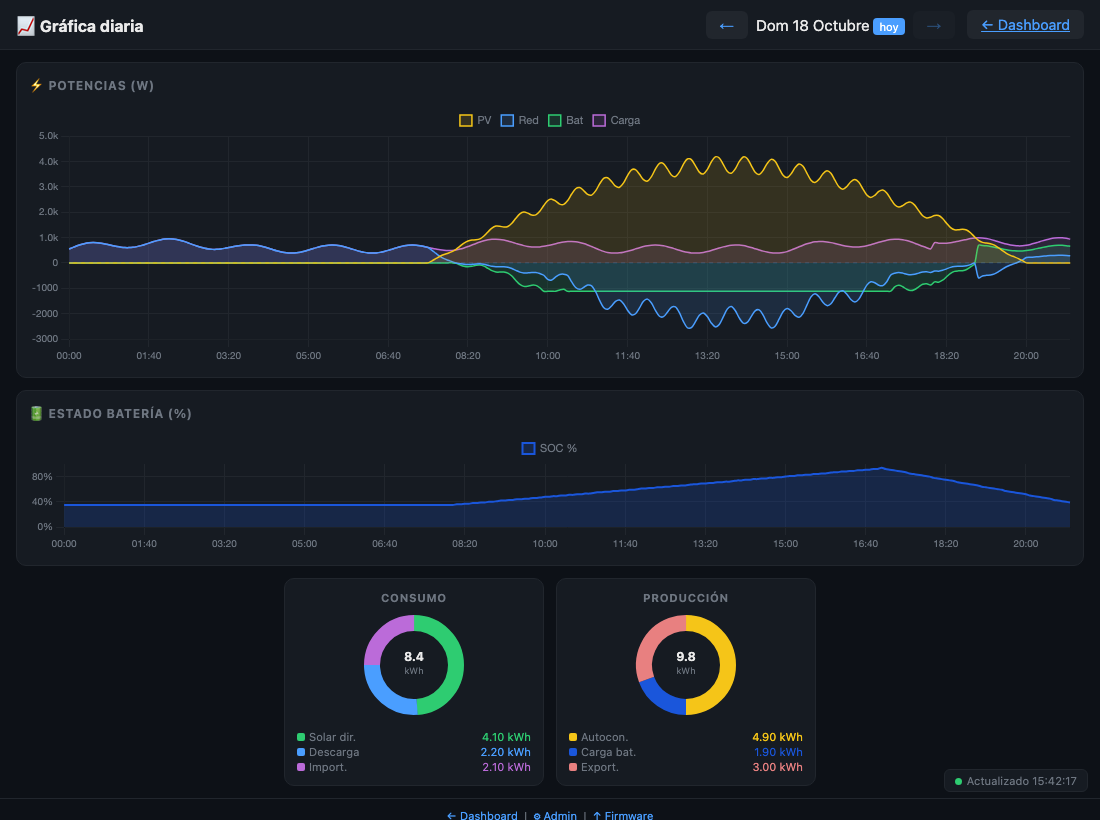
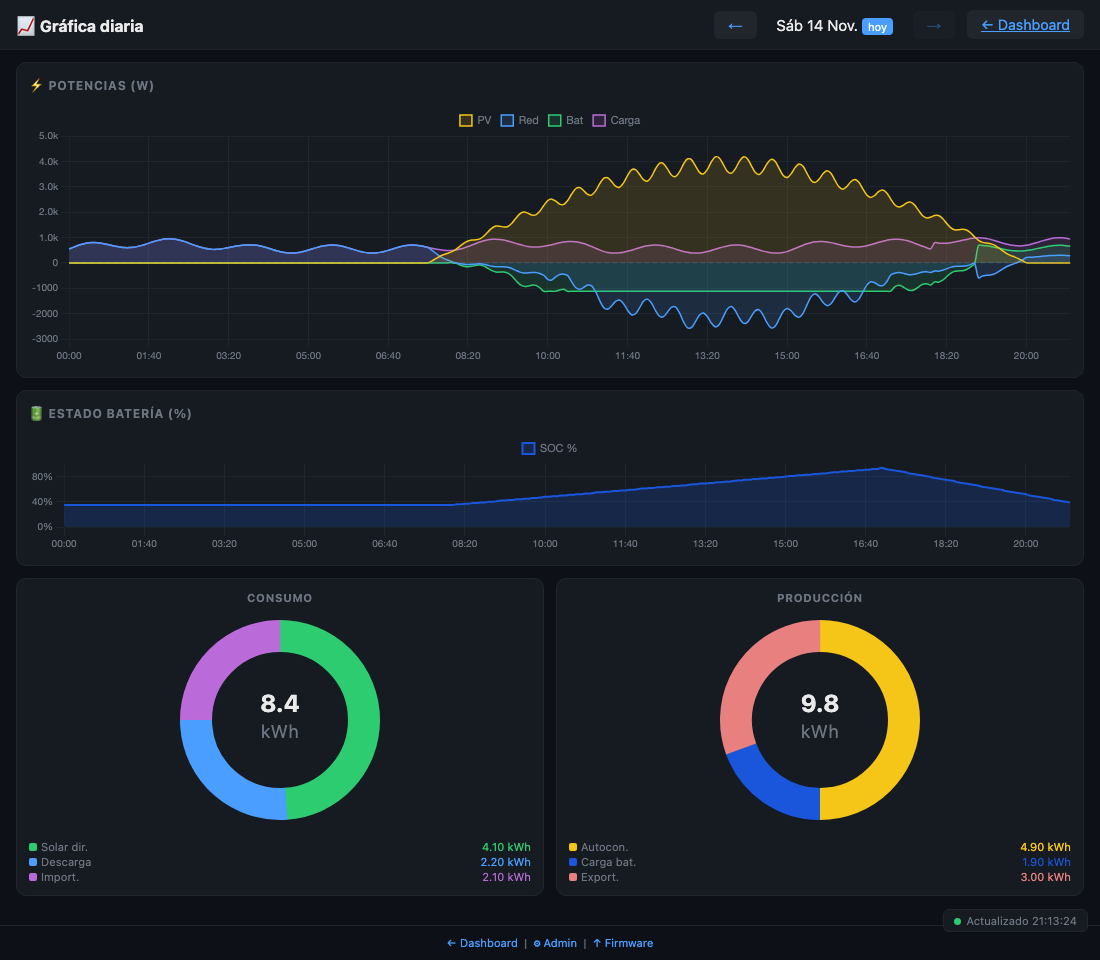
feat(web): los donuts de /chart ocupan todo el ancho, como el resumen «Hoy»

diff --git a/src/web_server.cpp b/src/web_server.cpp
@@ -953,10 +953,11 @@ main{flex:1;padding:12px 16px;display:flex;flex-direction:column;gap:12px}
 .no-data-overlay.visible{display:flex}
 .no-data-icon{font-size:2.2rem;opacity:.35}
 .no-data-txt{color:var(--muted);font-size:.85rem}
-.donut-row{display:flex;gap:12px;justify-content:center;flex-wrap:wrap}
+.donut-row{display:flex;gap:12px;flex-wrap:wrap}
 .donut-box{display:flex;flex-direction:column;align-items:center;gap:6px;
            background:var(--card);border:1px solid var(--border);
-           border-radius:10px;padding:12px;flex:1;min-width:180px;max-width:260px}
+           border-radius:10px;padding:12px;flex:1 1 180px;min-width:0}
+.donut-box svg{display:block;width:100%;max-width:220px;height:auto}
 .donut-box h3{font-size:.7rem;text-transform:uppercase;letter-spacing:.06em;
               color:var(--muted)}
 .leg{display:grid;grid-template-columns:1fr 1fr;gap:2px 10px;
@@ -1017,9 +1018,9 @@ footer a{color:var(--accent);text-decoration:none}
 <div class="donut-row">
   <div class="donut-box">
     <h3>Consumo</h3>
-    <svg width="110" height="110" viewBox="0 0 110 110">
+    <svg viewBox="0 0 110 110">
       <circle cx="55" cy="55" r="42" fill="none" stroke="#21262d" stroke-width="16"/>
-      <circle id="dc-pv"  cx="55" cy="55" r="42" fill="none" stroke="#2ecc71"
+      <circle id="dc-pv" cx="55" cy="55" r="42" fill="none" stroke="#2ecc71"
               stroke-width="16" stroke-dasharray="0 264" transform="rotate(-90 55 55)"
               style="transition:stroke-dasharray .6s"/>
       <circle id="dc-dis" cx="55" cy="55" r="42" fill="none" stroke="#4a9eff"
@@ -1051,7 +1052,7 @@ footer a{color:var(--accent);text-decoration:none}
   </div>
   <div class="donut-box">
     <h3>Producci&oacute;n</h3>
-    <svg width="110" height="110" viewBox="0 0 110 110">
+    <svg viewBox="0 0 110 110">
       <circle cx="55" cy="55" r="42" fill="none" stroke="#21262d" stroke-width="16"/>
       <circle id="dp-lod" cx="55" cy="55" r="42" fill="none" stroke="#f5c518"
               stroke-width="16" stroke-dasharray="0 264" transform="rotate(-90 55 55)"

diff --git a/CHANGELOG.md b/CHANGELOG.md
@@ -9,6 +9,7 @@ El formato sigue [Keep a Changelog](https://keepachangelog.com/es-ES/1.1.0/) y e
 ### Mejorado
 
 - **Panel web: el resumen «Hoy» ocupa todo el ancho**, con los mismos márgenes que las tarjetas de arriba. Antes los tres indicadores y los dos donuts tenían un ancho máximo y quedaban como un bloque centrado con espacio vacío a los lados (se notaba sobre todo en pantallas anchas o con la web en modo escritorio). Ahora los tres indicadores se reparten el ancho, los donuts se reparten una mitad cada uno y escalan con la pantalla (hasta 220 px, como los arcos de las tarjetas) y la leyenda se limita al ancho del donut. En móviles estrechos (320 px) sigue siendo de dos columnas. Comprobado con capturas del propio HTML del firmware a 320, 360, 390 y 980 px; no se ha visto aún en un equipo real.
+- **Gráfica web (`/chart`): los dos donuts (Consumo y Producción) también ocupan todo el ancho**, una mitad cada uno y escalando con la pantalla (hasta 220 px), en vez de quedar como dos tarjetas centradas de ancho máximo 260 px.
 - `tools/screenshots/capture-web.sh`: usa `--run-all-compositor-stages-before-draw` (con el Chrome actual los arcos y donuts salían vacíos) y fotografía el panel a 1100×760; se regenera `docs/manual/img/web-dashboard.png`.
 
 ## [v4.4.0] - 2026-11-13
